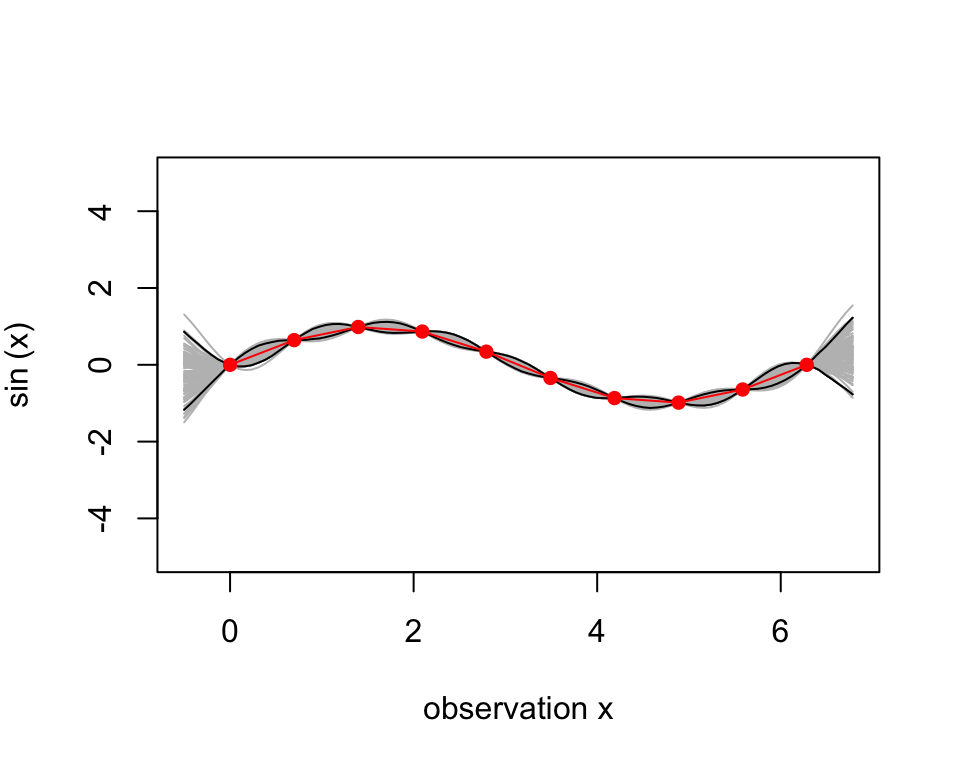
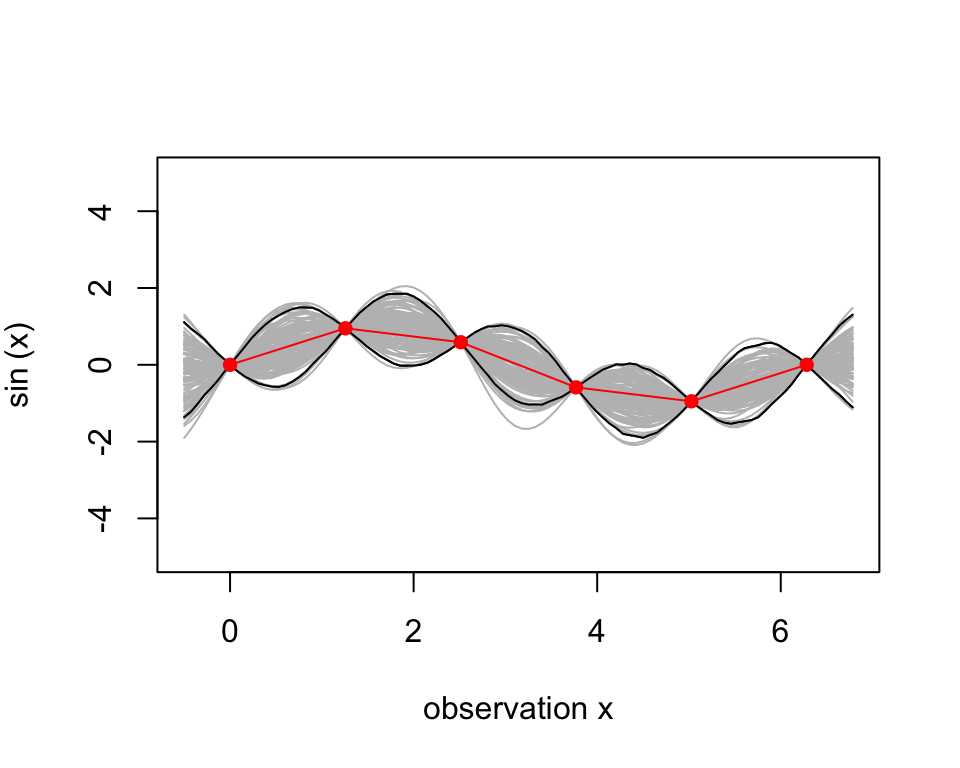
change to 6 points

Changed region(s): [[0.1875, 0.375, 0.9062, 0.5938]]

diff --git a/02_Gaussian-process/02A_basic-gaussian-process-models.html b/02_Gaussian-process/02A_basic-gaussian-process-models.html
@@ -7,7 +7,7 @@
 <meta name="viewport" content="width=device-width, initial-scale=1.0, user-scalable=yes">
 
 <meta name="author" content="Nam-Anh Tran">
-<meta name="dcterms.date" content="2024-06-25">
+<meta name="dcterms.date" content="2024-06-26">
 
 <title>Basic Gaussian Process Models</title>
 <style>
@@ -100,7 +100,7 @@ pre > code.sourceCode > span > a:first-child::before { text-decoration: underlin
     <div>
     <div class="quarto-title-meta-heading">Published</div>
     <div class="quarto-title-meta-contents">
-      <p class="date">June 25, 2024</p>
+      <p class="date">June 26, 2024</p>
     </div>
   </div>
   
@@ -121,7 +121,7 @@ y = \sin x, \quad x \in [0,2\pi] .
 <div class="sourceCode cell-code" id="cb1"><pre class="sourceCode r code-with-copy"><code class="sourceCode r"><span id="cb1-1"><a href="#cb1-1" aria-hidden="true" tabindex="-1"></a><span class="cf">if</span>(<span class="sc">!</span><span class="fu">library</span>(pacman, <span class="at">logical.return =</span> T)) <span class="fu">install.packages</span>(<span class="st">"pacman"</span>)</span>
 <span id="cb1-2"><a href="#cb1-2" aria-hidden="true" tabindex="-1"></a>pacman<span class="sc">::</span><span class="fu">p_load</span>(tidyverse, plgp, laGP, mvtnorm)</span>
 <span id="cb1-3"><a href="#cb1-3" aria-hidden="true" tabindex="-1"></a></span>
-<span id="cb1-4"><a href="#cb1-4" aria-hidden="true" tabindex="-1"></a>n <span class="ot">=</span> <span class="dv">10</span></span>
+<span id="cb1-4"><a href="#cb1-4" aria-hidden="true" tabindex="-1"></a>n <span class="ot">=</span> <span class="dv">6</span></span>
 <span id="cb1-5"><a href="#cb1-5" aria-hidden="true" tabindex="-1"></a>x_obs <span class="ot">=</span> <span class="fu">matrix</span>(<span class="fu">seq</span>(<span class="dv">0</span>,<span class="dv">2</span><span class="sc">*</span>pi,<span class="at">length=</span>n), <span class="at">ncol=</span><span class="dv">1</span>)</span>
 <span id="cb1-6"><a href="#cb1-6" aria-hidden="true" tabindex="-1"></a>y_obs <span class="ot">=</span> <span class="fu">sin</span>(x_obs)</span>
 <span id="cb1-7"><a href="#cb1-7" aria-hidden="true" tabindex="-1"></a><span class="fu">plot</span>(x_obs, y_obs, <span class="at">ylim =</span> <span class="fu">c</span>(<span class="sc">-</span><span class="dv">5</span>,<span class="dv">5</span>), <span class="at">xlab =</span> <span class="st">"observation x"</span>, <span class="at">ylab =</span> <span class="fu">expression</span>(sin<span class="sc">~</span><span class="st">"(x)"</span> ) )</span>

diff --git a/contents.html b/contents.html
@@ -46,8 +46,8 @@ ul.task-list li input[type="checkbox"] {
     <h2 id="toc-title">Table of contents</h2>
    
   <ul>
-  <li><a href="#bayesian-models" id="toc-bayesian-models" class="nav-link active" data-scroll-target="#bayesian-models"><span class="header-section-number">1</span> Bayesian models</a></li>
-  <li><a href="#gaussian-process" id="toc-gaussian-process" class="nav-link" data-scroll-target="#gaussian-process"><span class="header-section-number">2</span> Gaussian process</a></li>
+  <li><a href="#bayesian-models" id="toc-bayesian-models" class="nav-link active" data-scroll-target="#bayesian-models">Bayesian models</a></li>
+  <li><a href="#gaussian-process" id="toc-gaussian-process" class="nav-link" data-scroll-target="#gaussian-process">Gaussian process</a></li>
   </ul>
 </nav>
 </div>
@@ -76,16 +76,16 @@ ul.task-list li input[type="checkbox"] {
 
 </header>
 
-<section id="bayesian-models" class="level2" data-number="1">
-<h2 data-number="1" class="anchored" data-anchor-id="bayesian-models"><span class="header-section-number">1</span> Bayesian models</h2>
-<ol type="a">
+<section id="bayesian-models" class="level2">
+<h2 class="anchored" data-anchor-id="bayesian-models">Bayesian models</h2>
+<ol type="1">
 <li>Basic bayesian models <a href="https://heartofsaigon.github.io/writing-collection/01_Bayesian-models/01A_basic-bayesian-model.html"><em>(read me)</em></a></li>
 </ol>
 </section>
-<section id="gaussian-process" class="level2" data-number="2">
-<h2 data-number="2" class="anchored" data-anchor-id="gaussian-process"><span class="header-section-number">2</span> Gaussian process</h2>
-<ol type="a">
-<li>Basic Gaussian process <a href=""><em>(read me)</em></a></li>
+<section id="gaussian-process" class="level2">
+<h2 class="anchored" data-anchor-id="gaussian-process">Gaussian process</h2>
+<ol type="1">
+<li>Basic Gaussian process <a href="https://heartofsaigon.github.io/writing-collection/02_Gaussian-process/02A_basic-gaussian-process-models.html"><em>(read me)</em></a></li>
 </ol>
 </section>
 
